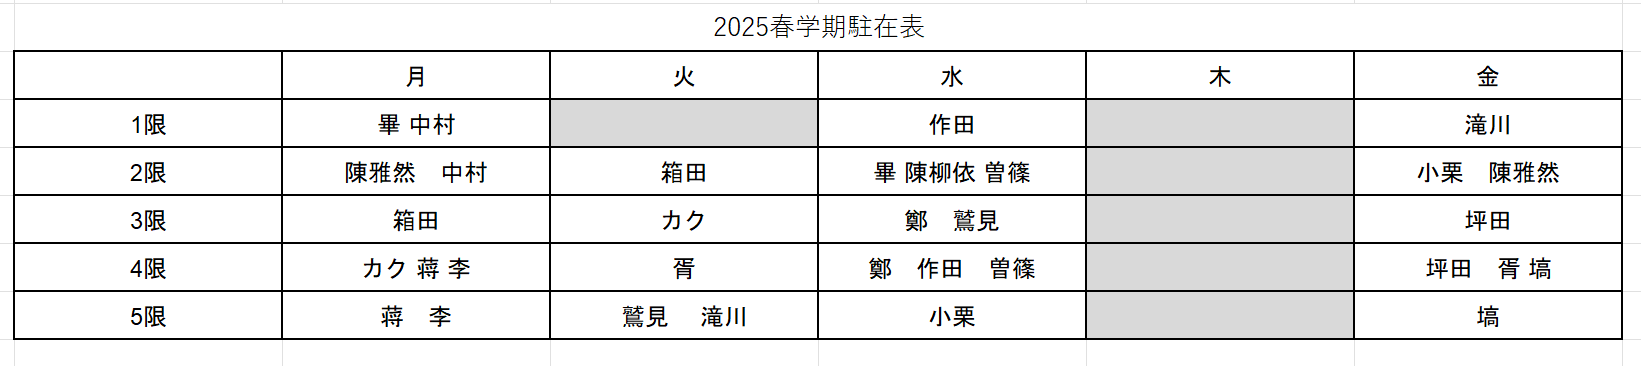
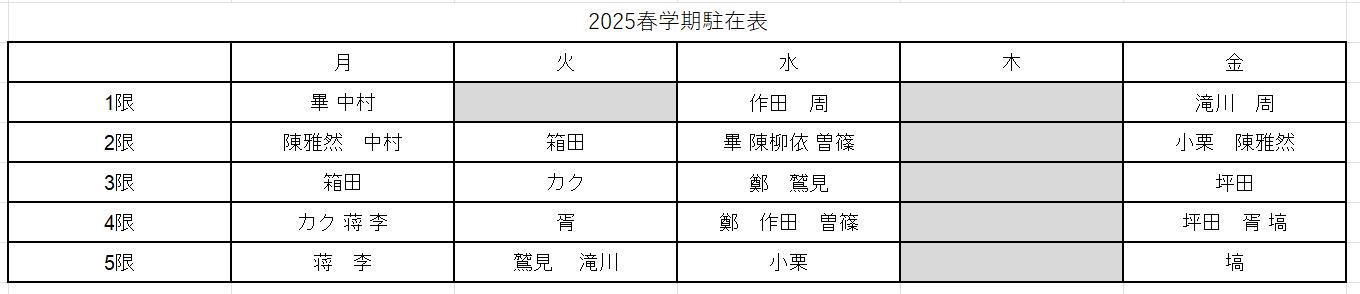
駐在表更新、ページ修正

Changed region(s): [[0.0, 0.0306, 1.0, 0.9796]]

diff --git a/pages/study_room.html b/pages/study_room.html
@@ -61,29 +61,20 @@
   </nav>
 
   <div class="container col-12 col-xl-10">
-    <h1>自習室</h1>
-    <h3>中国語のサポートプログラム</h3>
-    <div class="box_out">
-      <div class="box_in">
-        <h4>自習室</h4>
-        <p>
-          中国語研究室のSAがマンツーマンであなたの中国語学習をサポートします！
-        </p>
-        <p>
-          今学期より、自習室は対面で実施しております。場所はλ（ラムダ）508、中国語共同研究室です。<br />
-          現時点では、月曜〜金曜の原則１〜４限（月曜４限は除く）で担当者がおります。
-        </p>
-        <div style="width: 190px" class="wp-caption aligncenter">
-          <img id="imageid" class="figure-img" src="https://qr-official.line.me/sid/M/759idlft.png" alt="02" width="180"
-            height="180" />
-          <p class="wp-caption-text">SFC中国語自習室 ライン公式アカウント</p>
-        </div>
-        <p>
-          「授業で分からなかった内容がある」、「授業以外でも発音の練習がしたい！」、「中国語で文章を書いてみたけど、添削してもらいたい」等々、中国語学習に関することであれば基本的に何でもOKです！ぜひご活用ください。
-        </p>
-        <p>ただし、期末試験対策での使用はできません。</p>
-      </div>
+    <h1>SA/TA研究室駐在表(2025年度春学期)</h1>
+    <img src="../upload/2025haru_tyuzai.png" class="col-12 p-sm-5">
+    <br />
+
+    <h1>自習室予約</h1>
+    <div style="text-align: center;">
+      <img src="../upload/qrcode/study_room_res_24s.jpg" class="col-6 p-sm-2" />
     </div>
+
+    <h1>SA/TA応募</h1>
+    <div style="text-align: center;">
+      <img src="../upload/qrcode/sa_oubou.jpg" class="col-6 p-sm-2" />
+    </div>
+  </div>
   </div>
 
   <div class="bg-dark col-12 container-fluid">
